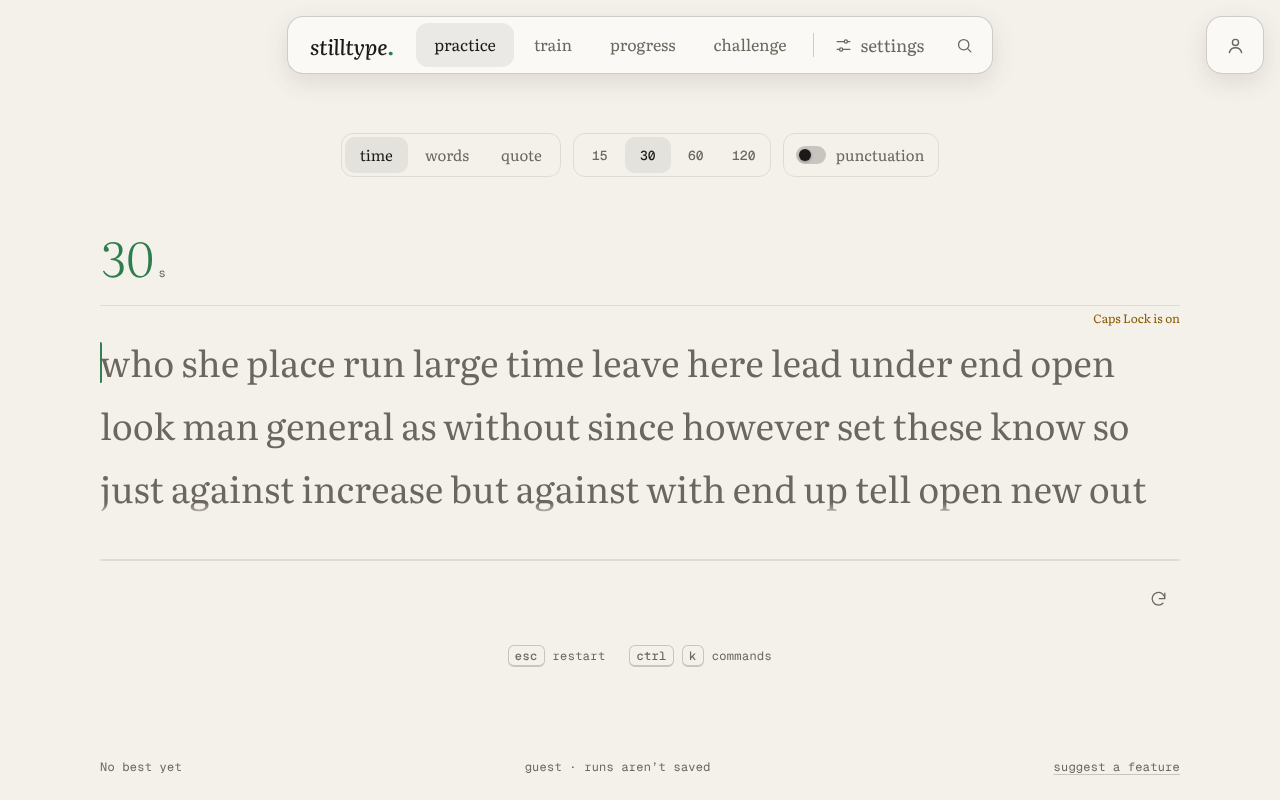
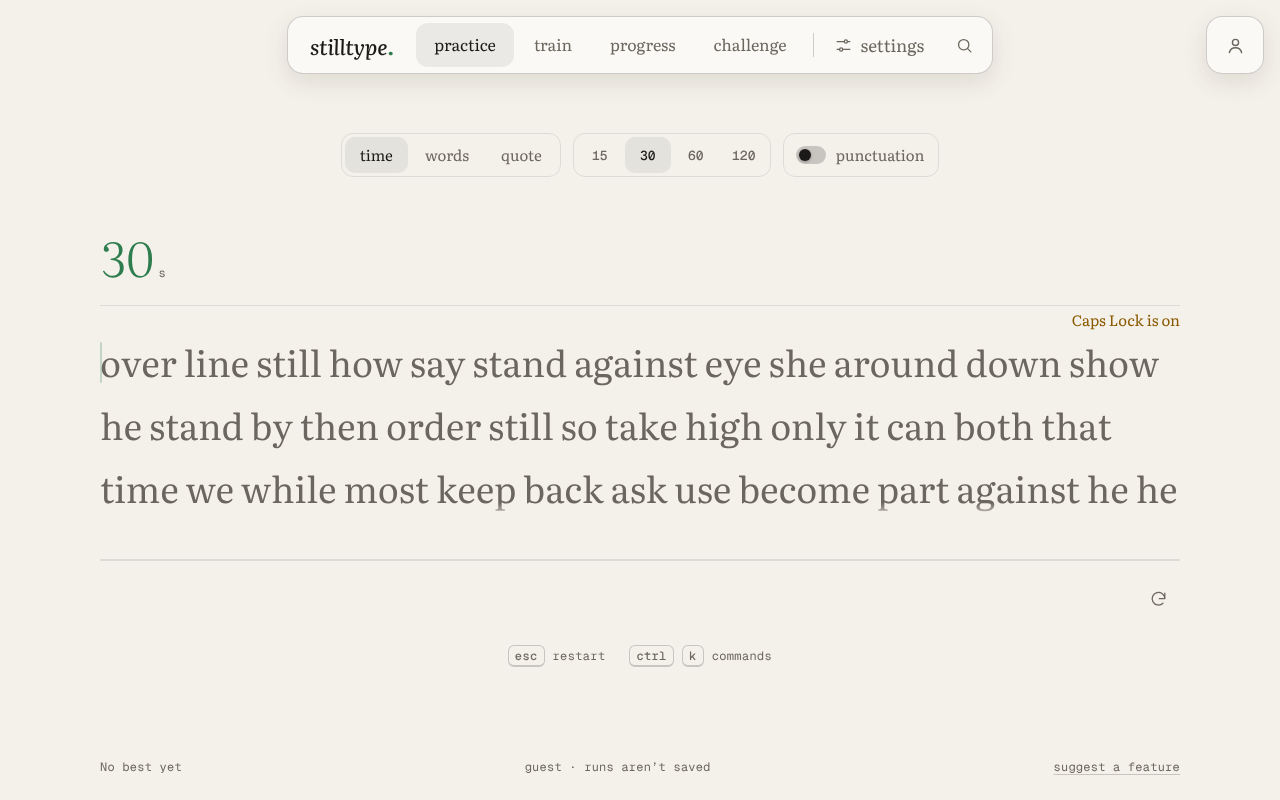
Set the Caps Lock warning at the small Literata size
12px is a mono label size; readable Literata copy starts at --text-small.

Claude-Session: https://claude.ai/code/session_01SaBNo9RHRaTR8cCUjK1iLD

Changed region(s): [[0.0625, 0.4375, 0.9062, 0.5625], [0.0625, 0.5938, 0.9375, 0.6562], [0.8438, 0.375, 0.9375, 0.4062]]

diff --git a/src/styles.css b/src/styles.css
@@ -893,7 +893,7 @@ body[data-running="true"] :is(.dock, .corner, .practice-controls, .quote-options
   right: 0;
   margin: 0;
   color: var(--warning);
-  font: var(--text-mono)/1.5 var(--font-serif);
+  font: var(--text-small)/1.5 var(--font-serif);
   white-space: nowrap;
   pointer-events: none;
   opacity: 0;
